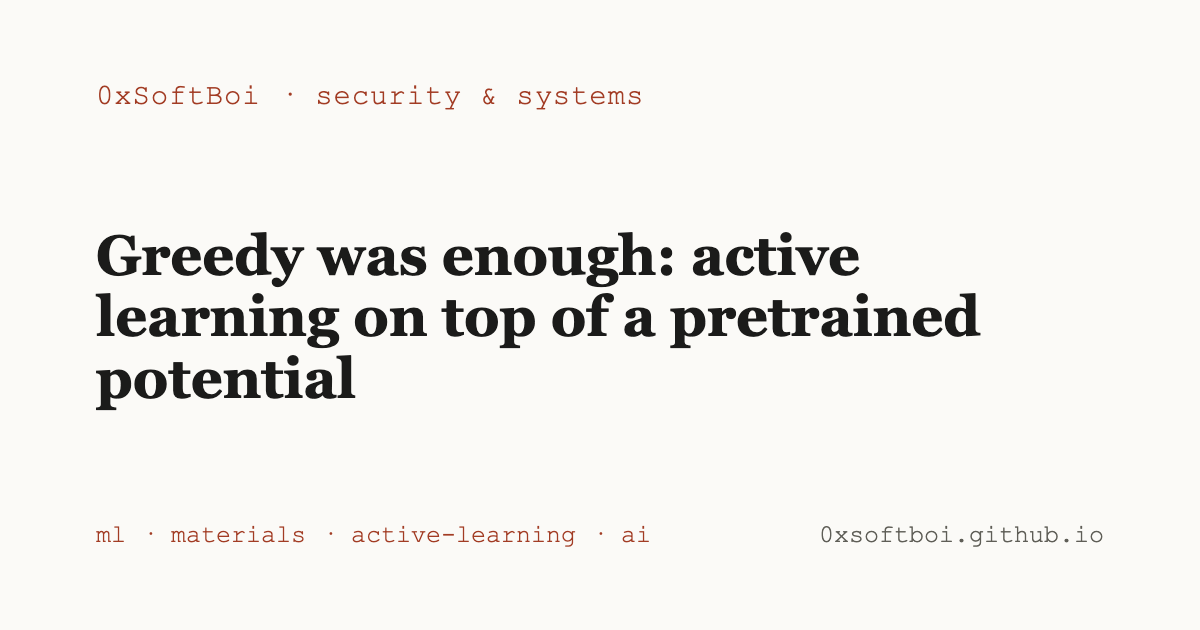
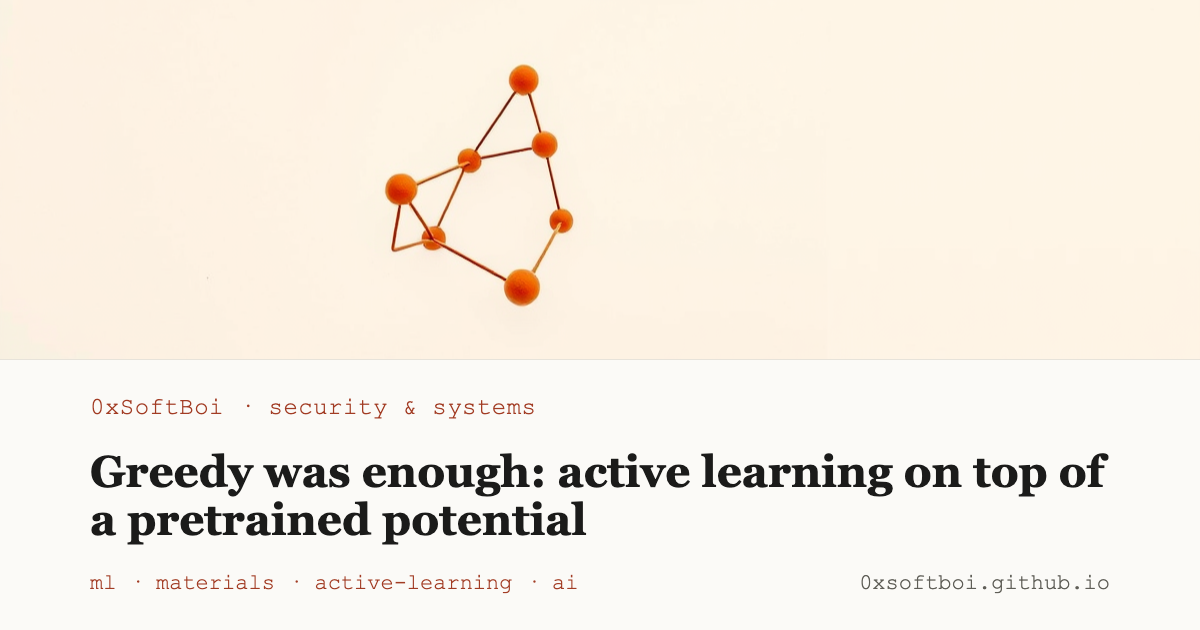
Themed per-post OG cards: FLUX art matched to each writing
Replace the generic text OG cards with magazine-style cards — themed AI artwork
(matched to each post's subject) on top, post title + tags below so social
unfurls stay legible. Adds _charts/gen_post_art.py generator.

diff --git a/_charts/gen_post_art.py b/_charts/gen_post_art.py
@@ -1,0 +1,123 @@
+#!/usr/bin/env python3
+"""Per-post themed OG cards: FLUX art matched to each writing's subject,
+composited magazine-style (themed art on top, post title below) so social
+unfurls stay legible while the visual matches the post.
+
+Output: assets/og/<slug>.png (1200x630), overwriting the generic text cards.
+
+SETUP:  pip install huggingface_hub pillow ; export HF_TOKEN=hf_xxx
+RUN:    python3 _charts/gen_post_art.py            # all posts
+        python3 _charts/gen_post_art.py the-bridge-that-paid-twice   # one post
+"""
+import os, re, sys, glob, html
+
+ROOT = os.path.dirname(os.path.dirname(os.path.abspath(__file__)))
+OG = os.path.join(ROOT, "assets", "og")
+TMP = os.path.join(ROOT, "_charts", "_ogtmp")
+MODEL = os.environ.get("ART_MODEL", "black-forest-labs/FLUX.1-schnell")
+CHROME = ("/Users/toma/Library/Caches/ms-playwright/chromium-1223/"
+          "chrome-mac-arm64/Google Chrome for Testing.app/Contents/MacOS/"
+          "Google Chrome for Testing")
+BG, INK, ACCENT, MUTED = "#fbfaf7", "#1b1b1a", "#a23c24", "#5f5e57"
+
+STYLE = ("minimalist abstract editorial artwork, warm off-white background, terracotta "
+         "and burnt-sienna accents, generous negative space, flat muted palette, subtle "
+         "paper grain, soft diffused light, no text, no logos, no lettering, tasteful, "
+         "restrained, fine-art print")
+
+# slug -> themed motif (the subject of each writing)
+MOTIFS = {
+    "an-amm-built-to-be-attacked": "a constant-product price curve under crossed attack arrows, a liquidity pool cracking",
+    "when-it-cant-explain-what-it-sees-it-asks": "a sensor eye over a blurred uncertain field resolving into a question",
+    "the-model-reads-not-it-just-cant-use-it": "a neural attention lattice, a logit lens focusing scattered tokens",
+    "greedy-was-enough-active-learning-pretrained-potential": "a crystalline molecular lattice with a few highlighted selected nodes",
+    "static-analysis-scores-zero-on-real-exploits": "a rigid scanner grid missing a hidden compositional flaw, a stark zero versus forty",
+    "recursive-types-finite-values-eip712-alloy": "a self-referential type tree, nested struct brackets folding into themselves",
+    "post-quantum-proof-shor-breaks-anyway": "a cryptographic lattice shattering under a quantum wavefront",
+    "auditing-my-own-bridge": "a lock-and-mint bridge over a ledger, a closed accounting seal",
+    "how-cow-protocol-settles": "intersecting intent arrows settling at one clearing price, a coincidence-of-wants ring",
+    "the-on-chain-randomness-landscape": "a landscape of dice and beacons, entropy scattering into ordered draws",
+    "the-other-side-of-the-wall": "an encrypted wall with a chessboard glowing faintly through it",
+    "verifiable-isnt-trustless-onchain-randomness": "a coin mid-flip beside a verifiable beacon, a trust boundary line",
+    "what-a-zk-proof-proves": "a sealed envelope emitting a single verified checkmark behind a veil",
+    "zk-dark-chess": "a fog-of-war chessboard over a Poseidon commitment lattice, hidden pieces",
+    "anatomy-of-a-fake-dice-game": "loaded dice with a hidden predetermined seed, a rigged wheel",
+    "anatomy-of-a-memecoin-honeypot": "a honeypot jar trapping a coin behind a one-way valve",
+    "the-bridge-that-paid-twice": "a bridge paying out twice across a forked chain after a reorg",
+    "the-index-fund-that-held-the-wrong-asset": "a basket of asset tokens that is secretly empty, a mismatched gauge",
+}
+
+
+def front_matter(text):
+    m = re.match(r"\A---\s*\n(.*?\n)---\s*\n", text, re.S)
+    fm = {}
+    if m:
+        t = re.search(r'^title:\s*"?(.*?)"?\s*$', m.group(1), re.M)
+        tg = re.search(r"^tags:\s*\[(.*?)\]", m.group(1), re.M)
+        if t: fm["title"] = t.group(1).replace('\\"', '"')
+        if tg: fm["tags"] = [x.strip() for x in tg.group(1).split(",") if x.strip()]
+    return fm
+
+
+def title_size(t):
+    n = len(t)
+    return 60 if n <= 38 else 52 if n <= 58 else 44 if n <= 80 else 38
+
+
+def card_html(bg_path, title, tags_line, fs):
+    return f"""<!doctype html><html><head><meta charset=utf-8><style>
+*{{margin:0;box-sizing:border-box}}
+html,body{{width:1200px;height:630px;background:{BG};overflow:hidden}}
+.card{{width:1200px;height:630px;display:flex;flex-direction:column;background:{BG}}}
+.art{{height:360px;width:1200px;background:url('file://{bg_path}') center/cover no-repeat;
+  border-bottom:1px solid #e7e3da}}
+.txt{{flex:1;padding:34px 90px;display:flex;flex-direction:column;justify-content:space-between;
+  font-family:Georgia,'Times New Roman',serif;color:{INK}}}
+.mark{{font-family:'Courier New',monospace;font-size:24px;color:{ACCENT};letter-spacing:.02em}}
+.title{{font-size:{fs}px;line-height:1.1;font-weight:600;max-width:1020px;overflow-wrap:break-word}}
+.row{{display:flex;justify-content:space-between;align-items:baseline;
+  font-family:'Courier New',monospace;font-size:22px;color:{MUTED}}}
+.tags{{color:{ACCENT}}}
+</style></head><body><div class="card">
+<div class="art"></div>
+<div class="txt">
+  <div class="mark">0xSoftBoi &middot; security &amp; systems</div>
+  <div class="title">{html.escape(title)}</div>
+  <div class="row"><span class="tags">{html.escape(tags_line)}</span><span>0xsoftboi.github.io</span></div>
+</div></div></body></html>"""
+
+
+def render(html_str, out_png):
+    os.makedirs(TMP, exist_ok=True)
+    hp = os.path.join(TMP, "postcard.html")
+    open(hp, "w").write(html_str)
+    import subprocess
+    subprocess.run([CHROME, "--headless=new", "--disable-gpu", "--no-sandbox",
+                    "--hide-scrollbars", "--force-color-profile=srgb",
+                    "--window-size=1200,630", f"--screenshot={out_png}", "file://" + hp],
+                   capture_output=True)
+
+
+def main(which):
+    from huggingface_hub import InferenceClient
+    client = InferenceClient(token=os.environ.get("HF_TOKEN"))
+    os.makedirs(OG, exist_ok=True)
+    os.makedirs(TMP, exist_ok=True)
+    for f in sorted(glob.glob(os.path.join(ROOT, "_posts", "*.md"))):
+        slug = re.sub(r"^\d{4}-\d{2}-\d{2}-", "", os.path.basename(f))[:-3]
+        if which and slug not in which:
+            continue
+        fm = front_matter(open(f).read())
+        title = fm.get("title", slug)
+        tags_line = " · ".join(fm.get("tags", [])[:4])
+        motif = MOTIFS.get(slug, "an abstract security and systems motif")
+        print(f"art: {slug} ...", flush=True)
+        img = client.text_to_image(f"{motif}, {STYLE}", model=MODEL, width=1200, height=384)
+        bg = os.path.join(TMP, f"bg-{slug}.png")
+        img.save(bg)
+        render(card_html(bg, title, tags_line, title_size(title)), os.path.join(OG, slug + ".png"))
+        print(f"  -> assets/og/{slug}.png", flush=True)
+
+
+if __name__ == "__main__":
+    main(set(a for a in sys.argv[1:] if not a.startswith("-")))
